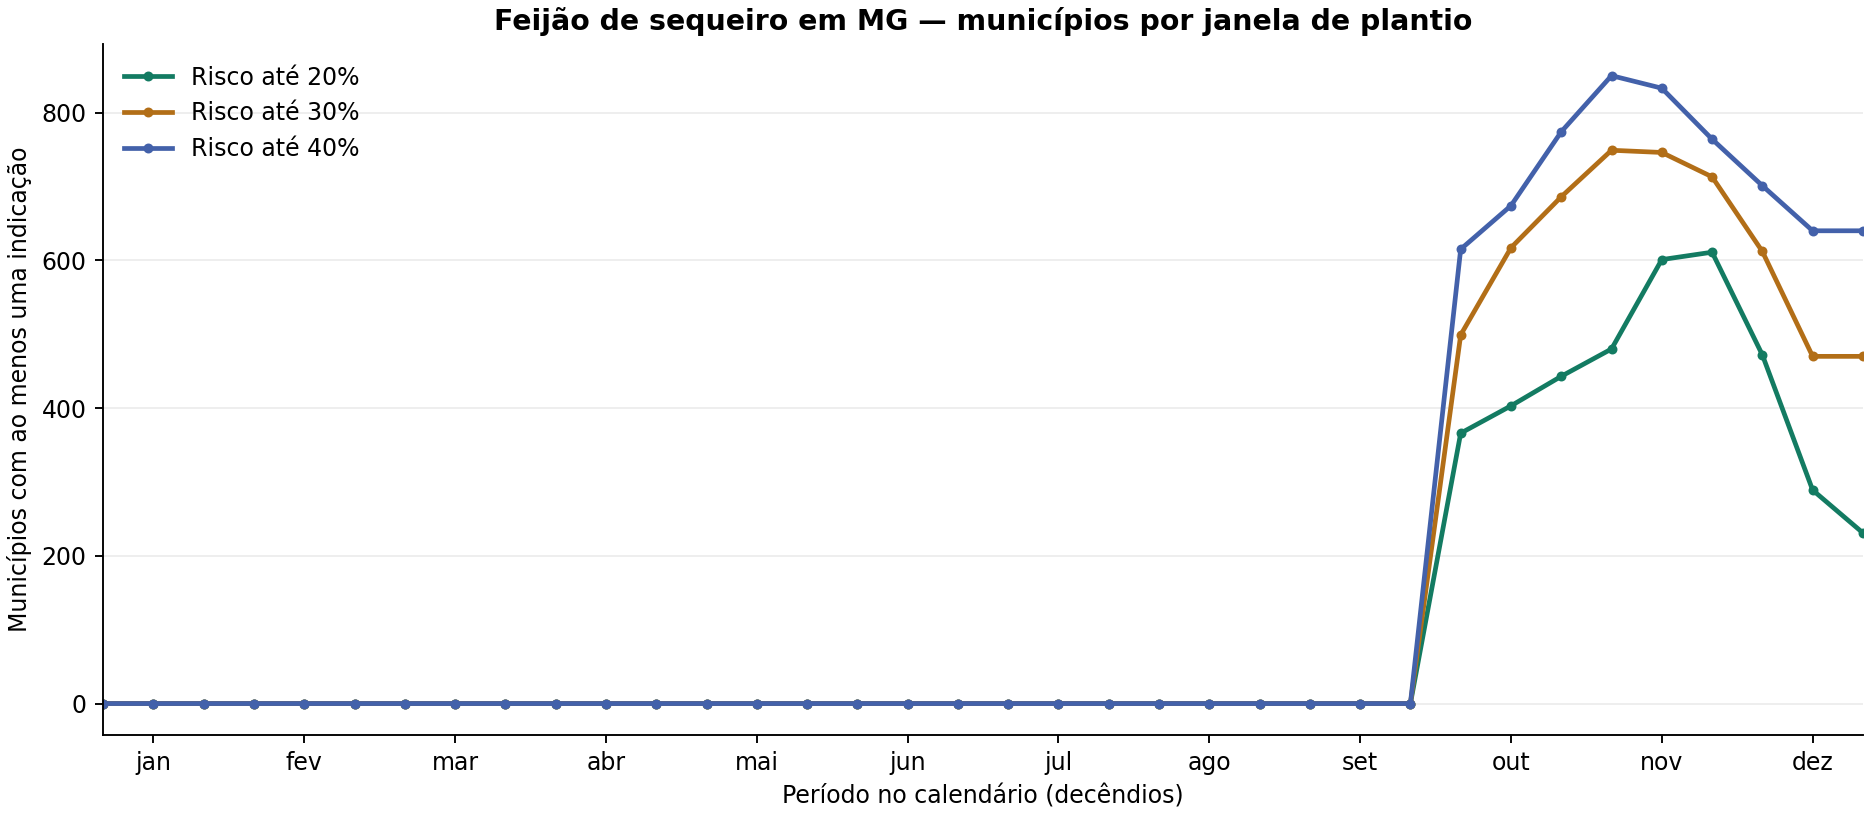
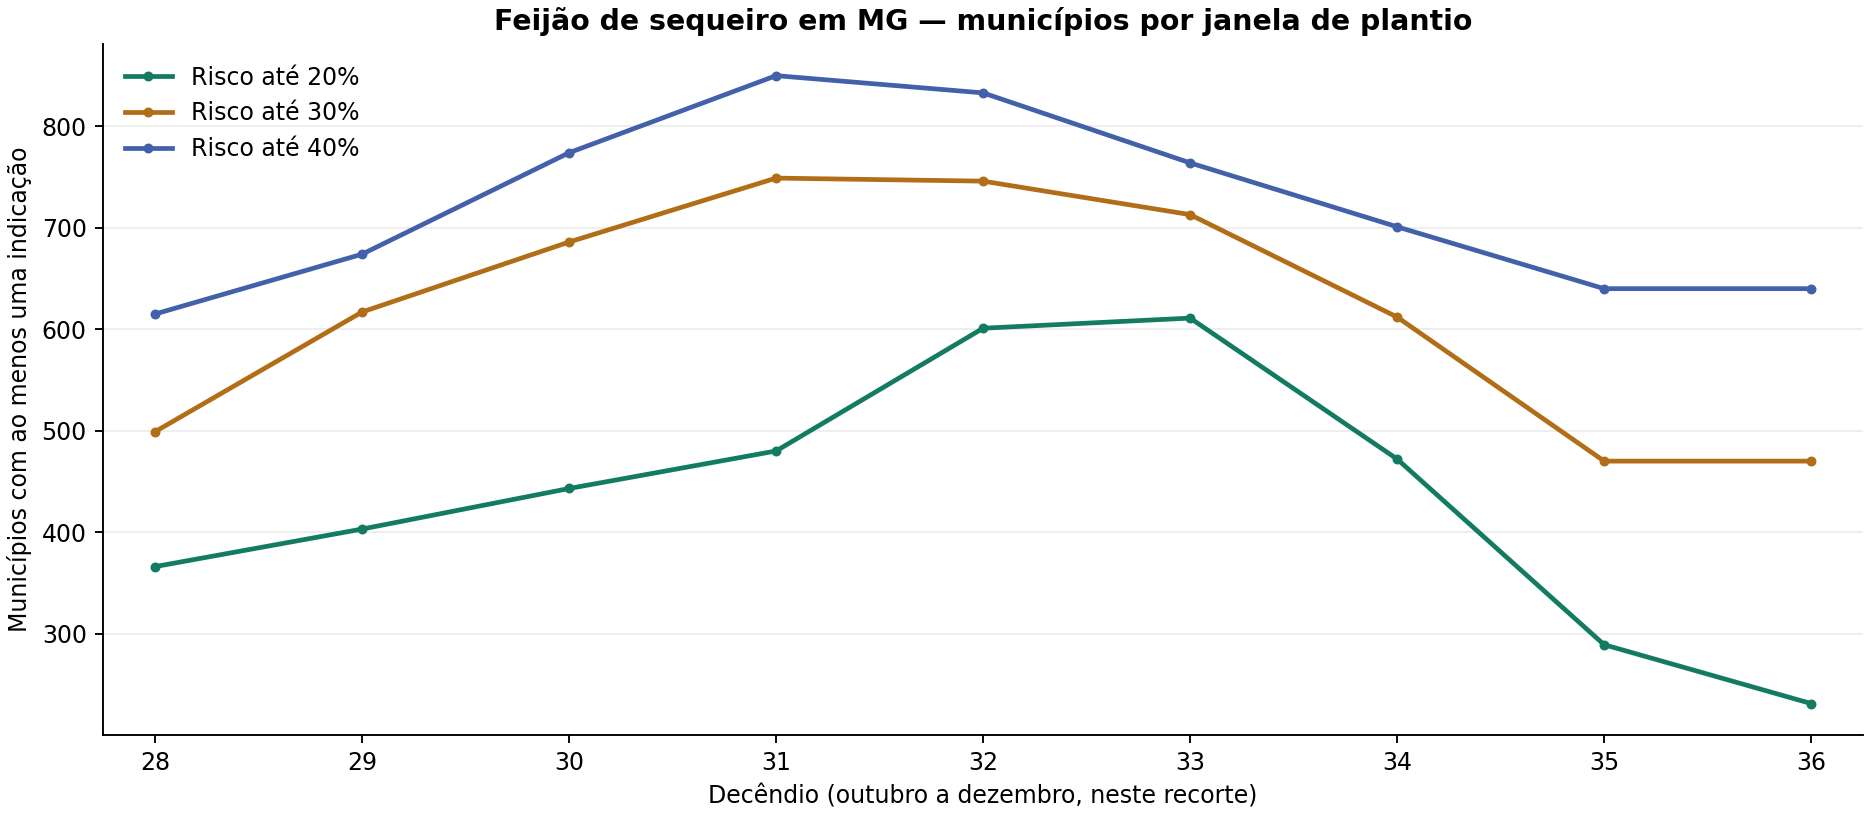
fix: explain ZARC soil classes and localize dashboard filters

diff --git a/dashboard/app.py b/dashboard/app.py
@@ -11,10 +11,10 @@ import streamlit as st
 
 from voz_da_terra.constants import (
     CYCLE_LABELS, DEC_COLS, DICTIONARY_URL,
-    SOIL_LABELS, SOURCE_URL,
+    SOIL_AD_RANGES, SOIL_CLASSIFICATION_URL, SOIL_LABELS, SOURCE_URL,
 )
 from voz_da_terra.metrics import (
-    filter_scope, load_processed, municipality_ranking,
+    filter_scope, load_processed, municipality_ranking, recommended_decendios,
     municipality_window_matrix, period_coverage, soil_period_heatmap,
 )
 
@@ -65,25 +65,44 @@ max_risk = st.sidebar.select_slider(
 )
 soil_codes = sorted(data["Cod_Solo"].unique())
 selected_soils = st.sidebar.multiselect(
-    "Classes de solo (vazio = todas)",
+    "Água disponível no solo (vazio = todas)",
     options=soil_codes,
     format_func=lambda code: SOIL_LABELS.get(code, f"Solo {code}"),
+    placeholder="Todas as classes de solo",
+    help="AD1 tem menor disponibilidade de água, AD6 tem maior. A classificação exige análise do solo.",
 )
+with st.sidebar.expander("O que são AD1 a AD6?"):
+    st.markdown(
+        "**AD significa água disponível no solo:** quantidade de água que o solo "
+        "consegue armazenar e oferecer às plantas. **AD1** representa a menor "
+        "disponibilidade e **AD6**, a maior. Não é uma nota de qualidade da terra."
+    )
+    for code in soil_codes:
+        st.caption(f"**{SOIL_LABELS.get(code, code)}:** {SOIL_AD_RANGES.get(code, 'Consultar portaria')}")
+    st.markdown(f"[Como identificar a classe do seu solo — MAPA]({SOIL_CLASSIFICATION_URL})")
 cycle_codes = sorted(data["Cod_Ciclo"].unique())
 selected_cycles = st.sidebar.multiselect(
     "Grupos de cultivar (vazio = todos)",
     options=cycle_codes,
     format_func=lambda code: CYCLE_LABELS.get(code, code),
+    placeholder="Todos os grupos de cultivar",
 )
 selected_cities = st.sidebar.multiselect(
     "Municípios (vazio = todos)",
     options=sorted(data["municipio"].unique()),
+    placeholder="Todos os municípios",
 )
+active_decendios = recommended_decendios(data)
+if not active_decendios:
+    st.error("A base não contém decêndios com indicação do ZARC neste recorte.")
+    st.stop()
 range_start, range_end = st.sidebar.slider(
-    "Intervalo de decêndios",
-    min_value=1,
-    max_value=36,
-    value=(28, 36),
+    "Intervalo de decêndios com indicação",
+    min_value=min(active_decendios),
+    max_value=max(active_decendios),
+    value=(min(active_decendios), max(active_decendios)),
+    help="O intervalo é calculado a partir dos períodos com alguma indicação na base, "
+    "antes dos filtros de solo, cultivar e município. No recorte atual: 28–36.",
 )
 
 filtered = filter_scope(

diff --git a/src/voz_da_terra/analysis.py b/src/voz_da_terra/analysis.py
@@ -13,10 +13,10 @@ import matplotlib.pyplot as plt
 import numpy as np
 import pandas as pd
 
-from .constants import DEC_COLS, MONTH_LABELS, RISK_CODES, SOIL_LABELS
+from .constants import DEC_COLS, RISK_CODES, SOIL_LABELS
 from .metrics import (
     load_processed, municipality_ranking, municipality_window_matrix,
-    period_coverage, soil_period_heatmap,
+    period_coverage, recommended_decendios, soil_period_heatmap,
 )
 
 
@@ -91,18 +91,23 @@ def generate_analysis(data_path: Path, reports_dir: Path) -> dict:
     fig, ax = plt.subplots(figsize=(11, 4.8), constrained_layout=True)
     colors = {20: "#137B62", 30: "#B26E17", 40: "#4361AA"}
     coverage_by_threshold = {}
+    active_periods = recommended_decendios(data)
     for threshold in RISK_CODES:
         matrix = municipality_window_matrix(data, threshold)
         period = period_coverage(matrix)
         coverage_by_threshold[threshold] = period
+        visible_period = period[period["decendio"].isin(active_periods)]
         ax.plot(
-            period["decendio"], period["municipios"],
+            visible_period["decendio"], visible_period["municipios"],
             color=colors[threshold], marker="o", markersize=3.2,
             linewidth=2, label=f"Risco até {threshold}%",
         )
-    ax.set_xticks(list(range(2, 37, 3)), MONTH_LABELS)
-    ax.set_xlim(1, 36)
-    ax.set_xlabel("Período no calendário (decêndios)")
+    # Focar os períodos com indicação evita 27 pontos sem informação útil.
+    # As demais datas continuam no CSV e não são apagadas da auditoria.
+    if active_periods:
+        ax.set_xticks(active_periods)
+        ax.set_xlim(min(active_periods) - 0.25, max(active_periods) + 0.25)
+    ax.set_xlabel("Decêndio (outubro a dezembro, neste recorte)")
     ax.set_ylabel("Municípios com ao menos uma indicação")
     ax.set_title("Feijão de sequeiro em MG — municípios por janela de plantio")
     ax.grid(axis="y", alpha=0.22)

diff --git a/tests/test_metrics.py b/tests/test_metrics.py
@@ -9,6 +9,7 @@ import pandas as pd
 from voz_da_terra.constants import DEC_COLS, decendio_label
 from voz_da_terra.metrics import (
     filter_scope, municipality_ranking, municipality_window_matrix,
+    recommended_decendios,
     period_coverage, soil_period_heatmap,
 )
 
@@ -68,6 +69,10 @@ class MetricsTests(unittest.TestCase):
     def test_bad_risk_is_rejected(self):
         with self.assertRaises(ValueError):
             municipality_window_matrix(self.frame, 50)
+
+    def test_recommended_decendios_ignores_zero_codes(self):
+        self.assertEqual([28, 29, 30], recommended_decendios(self.frame))
+        self.assertEqual([], recommended_decendios(self.frame.iloc[0:0]))
 
     def test_label(self):
         self.assertIn("out", decendio_label(28))

diff --git a/src/voz_da_terra/constants.py b/src/voz_da_terra/constants.py
@@ -28,6 +28,22 @@ SOIL_LABELS = {
     "15": "AD5",
     "16": "AD6",
 }
+
+# Instrução Normativa SPA/MAPA nº 1/2022 (com alteração de 05/08/2022).
+# AD = água disponível no solo; o valor é expresso em mm de água/cm de solo.
+SOIL_AD_RANGES = {
+    "11": "0,34 a <0,46 mm/cm",
+    "12": "0,46 a <0,61 mm/cm",
+    "13": "0,61 a <0,80 mm/cm",
+    "14": "0,80 a <1,06 mm/cm",
+    "15": "1,06 a <1,40 mm/cm",
+    "16": "≥1,40 mm/cm",
+}
+SOIL_CLASSIFICATION_URL = (
+    "https://www.gov.br/agricultura/pt-br/assuntos/riscos-seguro/"
+    "programa-nacional-de-zoneamento-agricola-de-risco-climatico/"
+    "classificacao-de-solo"
+)
 CYCLE_LABELS = {"20": "Grupo I", "21": "Grupo II", "22": "Grupo III"}
 
 MONTH_LABELS = (

diff --git a/src/voz_da_terra/metrics.py b/src/voz_da_terra/metrics.py
@@ -38,6 +38,18 @@ def filter_scope(
     return selected.copy()
 
 
+def recommended_decendios(frame: pd.DataFrame) -> list[int]:
+    """Períodos que possuem ao menos uma indicação oficial no conjunto lido.
+
+    Código zero não significa ausência de dados: significa que aquele período
+    não tem recomendação no recorte. Mantemos as 36 colunas no arquivo curado.
+    """
+    if frame.empty:
+        return []
+    recommendations = frame[list(DEC_COLS)].isin(RISK_CODES).any(axis=0)
+    return [int(column[3:]) for column, present in recommendations.items() if present]
+
+
 def municipality_window_matrix(frame: pd.DataFrame, max_risk: int) -> pd.DataFrame:
     """Matriz booleana município x decêndio.
 

diff --git a/docs/metodologia.md b/docs/metodologia.md
@@ -14,6 +14,10 @@ Recorte escolhido: `Nome_cultura == "Feijão"`, `UF == "MG"`, `Nome_Outros_Manej
 
 ## 3. Tratamento e indicadores
 
+**Classes AD:** a classificação do MAPA considera a *água disponível no solo*, em milímetros de água por centímetro de solo. AD1 indica a faixa mais baixa (de 0,34 até menos de 0,46 mm/cm), enquanto AD6 indica valores a partir de 1,40 mm/cm. As faixas intermediárias são apresentadas no painel. Elas não representam uma escala de qualidade geral ou análise individual da propriedade. Fonte: [MAPA — classificação de solos por água disponível](https://www.gov.br/agricultura/pt-br/assuntos/riscos-seguro/programa-nacional-de-zoneamento-agricola-de-risco-climatico/classificacao-de-solo).
+
+**Janela do painel:** o intervalo selecionável é derivado dos decêndios com alguma indicação no recorte, atualmente 28–36. Os decêndios 1–27 não foram removidos da base bruta nem da base curada: os respectivos códigos não contêm indicação de plantio nesta combinação de cultura, UF e manejo.
+
 O ETL faz leitura em blocos (`chunksize=50_000`), conserva geocódigos como strings, valida a safra, valida códigos de decêndio `{0, 20, 30, 40}` e descarta linhas com município vazio ou geocódigo fora do padrão de sete dígitos.
 
 Para dado limite `R ∈ {20, 30, 40}`, um decêndio é considerado **indicado** se o código original for um dos valores em `{20, 30, 40}` **menores ou iguais a R**. Código `0` não é uma indicação. Para a contagem por município e decêndio, utilizamos `any()` sobre as combinações de solo/ciclo do município; ou seja, **cada município conta no máximo uma vez por decêndio**. A contagem geral de municípios com indicação usa `any()` sobre os 36 decêndios. Essa união é útil para cobertura territorial, mas **não determina aptidão para qualquer propriedade daquele município**.
